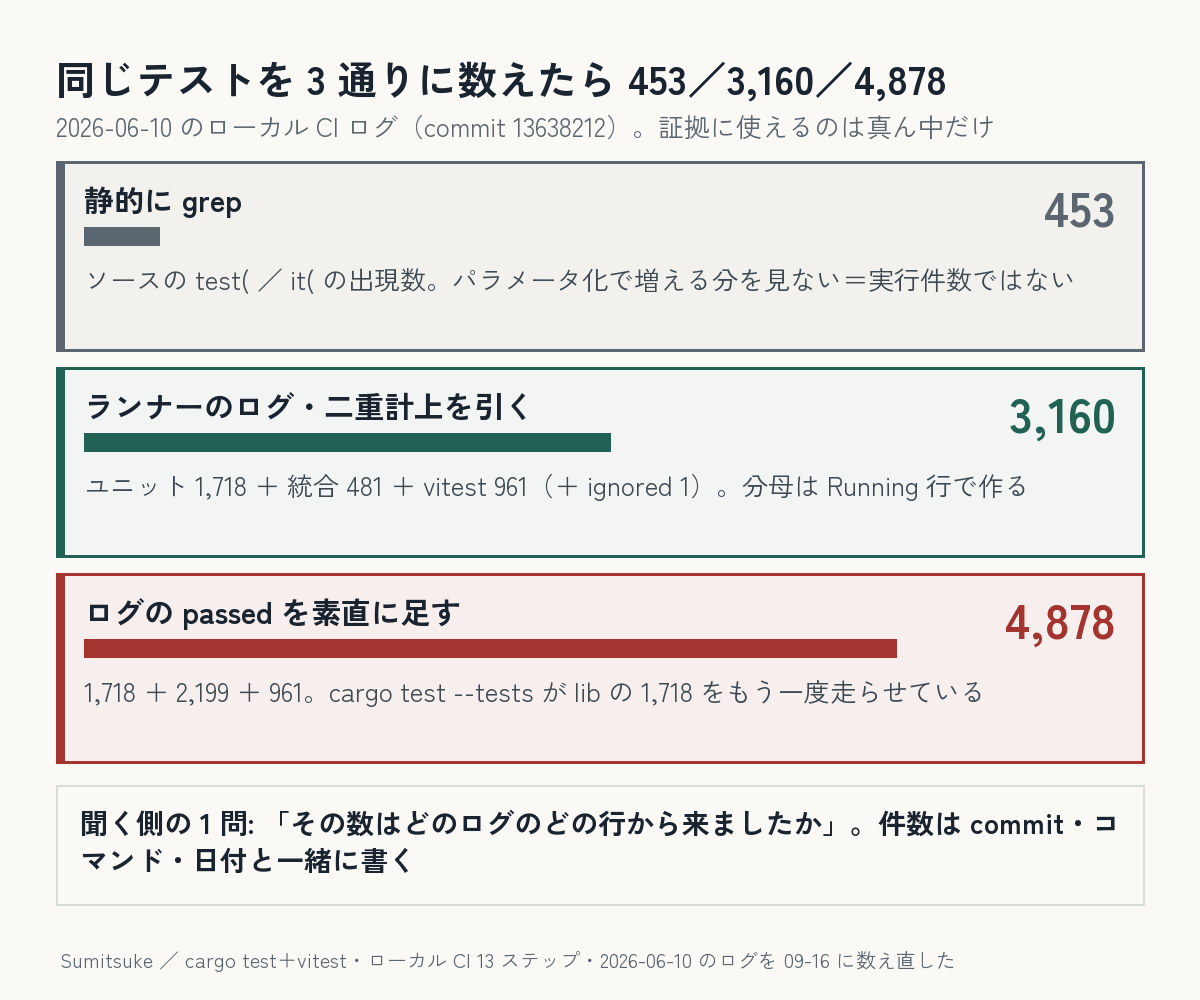
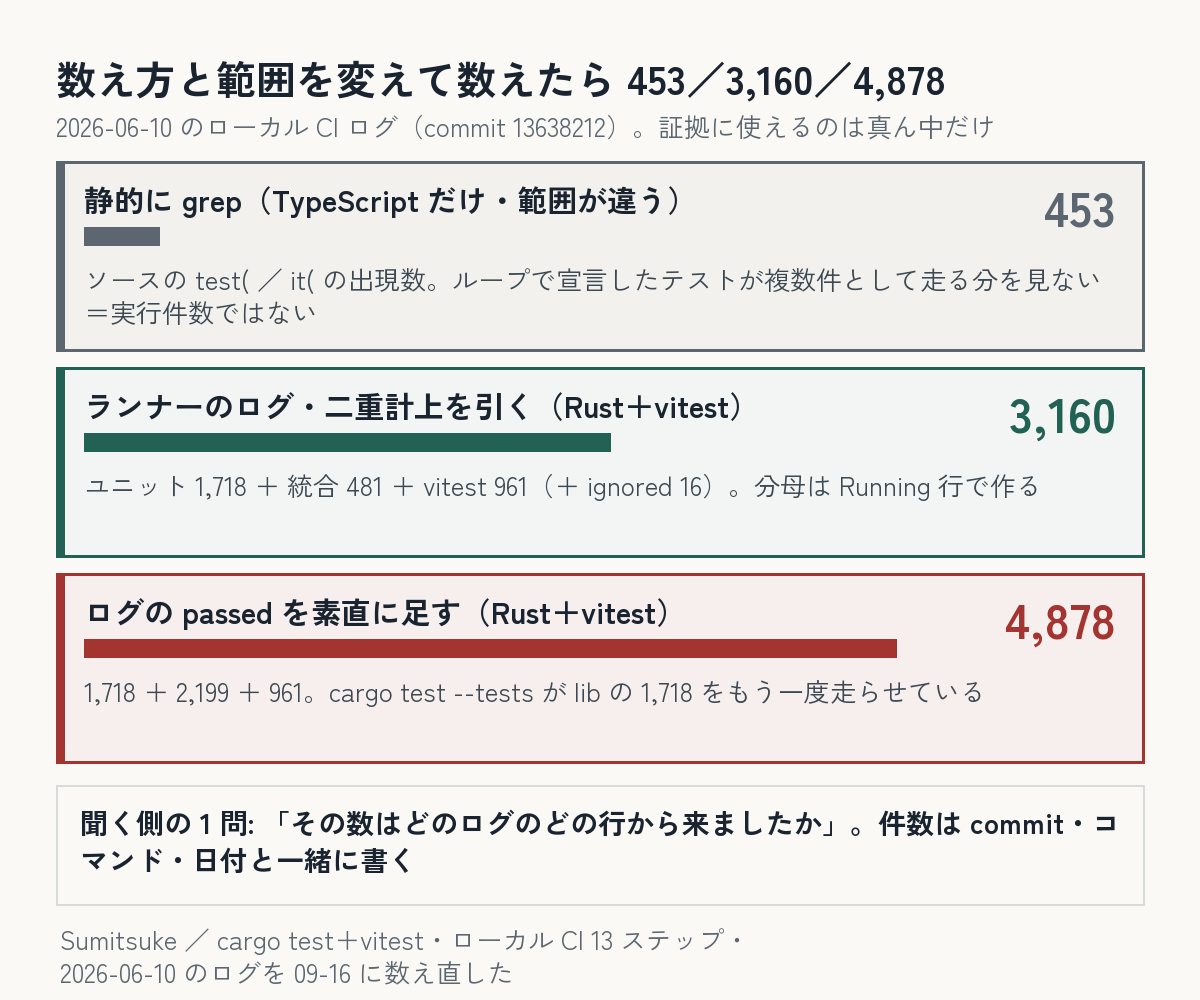
再デプロイ（未公開 1 本: wordpress-handover-admin-vs-wpcli／待ち行列から 1 本: prove-tests-by-run-log）

diff --git a/articles/prove-tests-by-run-log.md b/articles/prove-tests-by-run-log.md
@@ -1,0 +1,126 @@
+---
+title: "「テスト 3,000 件・全部緑」を証拠にする出し方——数え方と範囲を変えて数えたら 453／3,160／4,878 になった"
+emoji: "🧾"
+type: "tech"
+topics: ["テスト", "Rust", "vitest", "CI", "開発プロセス"]
+published: true
+---
+
+
+「テストが 3,000 件あって全部通っています」は、そのままでは自己申告です。第三者が信じられる形にするには、**何件・何を・どのコミットで・どのコマンドで**回したかが要ります。自作アプリ（Rust＋TypeScript・ソロ開発）のローカル CI のログ 1 回分を材料に、証拠として出す 3 点と、**同じ commit のテストが、数え方と範囲で 453〜4,878 に変わった実例**（453 は TypeScript だけの静的な数）を書きます。
+
+**この記事の位置づけ**（2026-09-26 追記）
+
+- この記事で新しく示すこと: 証拠として出す 3 点（件数・コマンド・commit）と、`cargo test --tests` が lib のテストを再走させて二重に数える実例。
+- 当てはまる範囲: 自作アプリ 1 本・CI ログ 1 回分。453 は TypeScript だけを静的に数えた数で、3,160・4,878 とは範囲が違います。
+
+## 証拠に必要な 3 点
+
+1. **ランナーの生ログ**（passed／failed／ignored の実数が書かれた行）
+2. **再現手順**（commit・コマンド・日時）
+3. **二重計上を引いた数**（ここが本題）
+
+合否を終了コードでなく件数で読む理由は別の記事（[緑を信じない](https://sumitsuke.jp/via/zenn/lab/green-is-not-proof/)）に書いたので、ここは「出し方」だけに絞ります。
+
+## 材料＝2026-06-10 のローカル CI ログ 1 回分
+
+commit `13638212`（2026-06-10 15:02）に対して 15:10 に回した 13 ステップ、全 exit 0、114.6 秒。ステップごとにログが 1 本ずつ残っています。テストに関わるのは 3 本です。
+
+| ステップ | コマンド | ログの結果行 |
+|---|---|---|
+| cargo-test-lib | `cargo test --lib` | `test result: ok. 1718 passed; 0 failed; 1 ignored; 0 measured; 0 filtered out` |
+| cargo-test-integration | `cargo test --tests` | `test result:` が **12 行**・passed の合計 2,199 |
+| vitest | `npm run test` | `Test Files 57 passed (57)` `Tests 961 passed (961)` |
+
+![同じ commit を、数え方と範囲を変えて数えたら 453（TypeScript だけの静的 grep＝範囲が違う）／3,160（ランナーのログ・二重を引く）／4,878（passed を素直に足す）](/images/prove-tests-by-run-log/t1_three_counts.png)
+
+## 数え方 1: ログの passed を素直に足す → 4,878
+
+1,718 ＋ 2,199 ＋ 961 ＝ **4,878**。これを「テスト 4,878 件」と書くと嘘になります。
+
+## 数え方 2: 二重計上を引く → 3,160
+
+`cargo test --tests` のログの 12 行を `Running` 行と突き合わせると、こうなっていました。
+
+```
+unittests src\lib.rs                            1718 passed (1 ignored)   ← --lib と同じもの
+unittests src\main.rs                              0 passed
+tests\baseline_integrity.rs                       11
+tests\db.rs                                       45
+tests\deletion_factory_reset_contract.rs           3
+tests\dev_prod_separation.rs                       4
+tests\ingest_disabled_by_default_contract.rs       2
+tests\integration.rs                             363 (12 ignored)
+tests\pre_release.rs                              25
+tests\rendering.rs                                 6 (3 ignored)
+tests\security.rs                                 19
+tests\ssot_thresholds_contract.rs                  3
+```
+
+`cargo test --tests` は「テスト対象のターゲット全部」なので、**lib のユニットテスト 1,718 件をもう一度走らせています**。統合テストとして数えてよいのは残りの 481 件。したがって
+
+- Rust ユニット 1,718
+- Rust 統合 481
+- vitest 961
+- 合計 **3,160**（＋ ignored 16。内訳は下の「ignored も書く」）
+
+`--lib` と `--tests` を別ステップに分けると（分けたい理由はある＝統合は遅い）、ログの上では lib が 2 回出ます。**分母は `Running` 行で作る。** `test result:` 行だけを足すと二重になります。
+
+## 数え方 3: ソースを静的に grep する → 453
+
+同じリポに「テストの棚卸し」用のスクリプトがあり、`test(`／`it(` の出現を数えます。同じ commit `13638212` のソースを数えると vitest **453**。ランナーは 961 と言っています。この commit の TypeScript に `describe.each`／`test.each`（`.each(`）は 0 件でした。差は、ループ（`for … of` の中で `it(` を宣言）で 1 つの宣言が複数件として実行されるためだ、と読んでいます。ただし 961−453＝508 件の内訳（ループの展開数の合計）は数えていないので、「主な理由と読んでいる」までです。逆に、`#[test]` の行数を数えるスクリプトは `#[ignore]` の行を見ないので、走らない分を引けません。
+
+静的な件数は「テストコードの規模」の目安にはなりますが、**「実行されたテストの件数」ではない**。証拠に使う数はランナーのログからだけ取ります。
+
+## ignored も書く
+
+ログの結果行には、lib に `1 ignored`、統合の `integration.rs` に `12 ignored`、`rendering.rs` に `3 ignored` があり、合計は **16** です（vitest の skip は 0）。`--tests` のログにも lib の行が再び出ますが、数えるのは 1 回です。実際に抜き出すと、こうなっています。
+
+```
+test result: ok. 1718 passed; 0 failed; 1 ignored; 0 measured; 0 filtered out; finished in 3.35s
+test result: ok. 363 passed; 0 failed; 12 ignored; 0 measured; 0 filtered out; finished in 1.44s
+test result: ok. 6 passed; 0 failed; 3 ignored; 0 measured; 0 filtered out; finished in 0.00s
+```
+
+中身が分かっているのは lib の 1 件だけで、ビルド時の環境変数と実ネットワークが要る手動の e2e です。残りの 15 件（統合 12・rendering 3）が走らない理由は確かめていません。「全部緑」と書くときは、走らなかったものが何件あって、なぜ走らなかったかを添えます。0 件なら 0 件と書く。私自身、この記事の下書きでは ignored を 1 件と書いていました。結果行を全部数え直して 16 になりました。
+
+## 数は動く。だから時点を書く
+
+同じリポについて 2026-06 上旬に書いた下書きには「約 3,200 件（Rust 2,204＝ユニット 1,723＋統合 481・vitest 996）」とありました。2026-06-10 のログでは 3,160。どちらも嘘ではなく、**時点が違う**だけです。件数を書くときは日付と commit を必ず横に置く。「現在 3,000 件以上」のような書き方は、更新されない限り古くなります。
+
+## 出す形（テンプレ）
+
+```
+テスト実行の記録
+- 対象: <リポ> commit <hash>（<日付>）
+- コマンド: cargo test --lib / cargo test --tests / npm run test
+- 結果（ランナーのログから・二重計上を除く）:
+  - Rust ユニット   1,718 passed / 0 failed / 1 ignored（理由: 環境変数と実ネットワークが要る手動 e2e）
+  - Rust 統合         481 passed / 0 failed / 15 ignored（10 ファイル。--tests のログに含まれる lib 1,718 は除外。ignored＝integration.rs 12・rendering.rs 3、理由は未確認）
+  - vitest            961 passed（57 ファイル）
+  - 合計            3,160 passed / ignored 16
+- ログ: reports/ci-local/<ts>/T2-cargo-test-lib.log ほか 2 本（添付）
+- 参考: 静的な test() の出現数は 453（実行件数ではない）
+```
+
+納品やレビューで「テストは何件ですか」と聞かれたら、この形で返します。聞く側なら、**「その数はどのログのどの行から来ましたか」**の 1 問で、上の 3 通りのどれかが分かります。
+
+## 手順として
+
+1. 件数はランナーの結果行からだけ取る（終了コード・静的 grep・記憶からは取らない）
+2. `Running` 行（またはテストファイル名）で分母を作り、同じバイナリが 2 回出ていないか見る
+3. ignored／skipped を件数と理由つきで書く
+4. commit・コマンド・日時をログの隣に書く
+5. ログそのものを添付する（数字だけ写さない）
+
+### AI の利用について
+
+ローカル CI と棚卸しのスクリプトは AI（Claude・Codex）と書きました。この記事の数え直し（12 行の突き合わせ・静的 453 との比較）も AI（Claude Code）が行い、人間が裁定と公開の判断をしました。数字は 2026-06-10 のログから写しています。再計測はしていません（この記事の主張は数の出し方で、件数そのものではありません）。
+
+### 関連
+
+- 本家（検証の記録つき・受け取る側の 1 問）: [テスト件数を数え方と範囲を変えて数えたら 453／3,160／4,878 だった——納品書に書く数はどれか](https://sumitsuke.jp/via/zenn/lab/test-count-three-ways/)
+- 合否を終了コードでなく件数で読む理由: [自作の検査器を数か月運用して数えたら、捕まえた欠陥 5 件に対して検査器を直した回数が 22 件だった](https://sumitsuke.jp/via/zenn/lab/green-is-not-proof/)
+- 納品を受ける側が見る確認証拠: [AI 生成コードの検収シート（Markdown・1 枚）——「動いた」を「期待値と一致した」に置き換える 9 項目](https://sumitsuke.jp/via/zenn/lab/ai-code-acceptance-sheet/)
+
+次に読む: [約束を縛る検査スクリプトの文面が古くなっていた——許可リストを 1 本増やしたとき、直し忘れた 2 か所](https://sumitsuke.jp/via/zenn/lab/guard-message-drift/)
